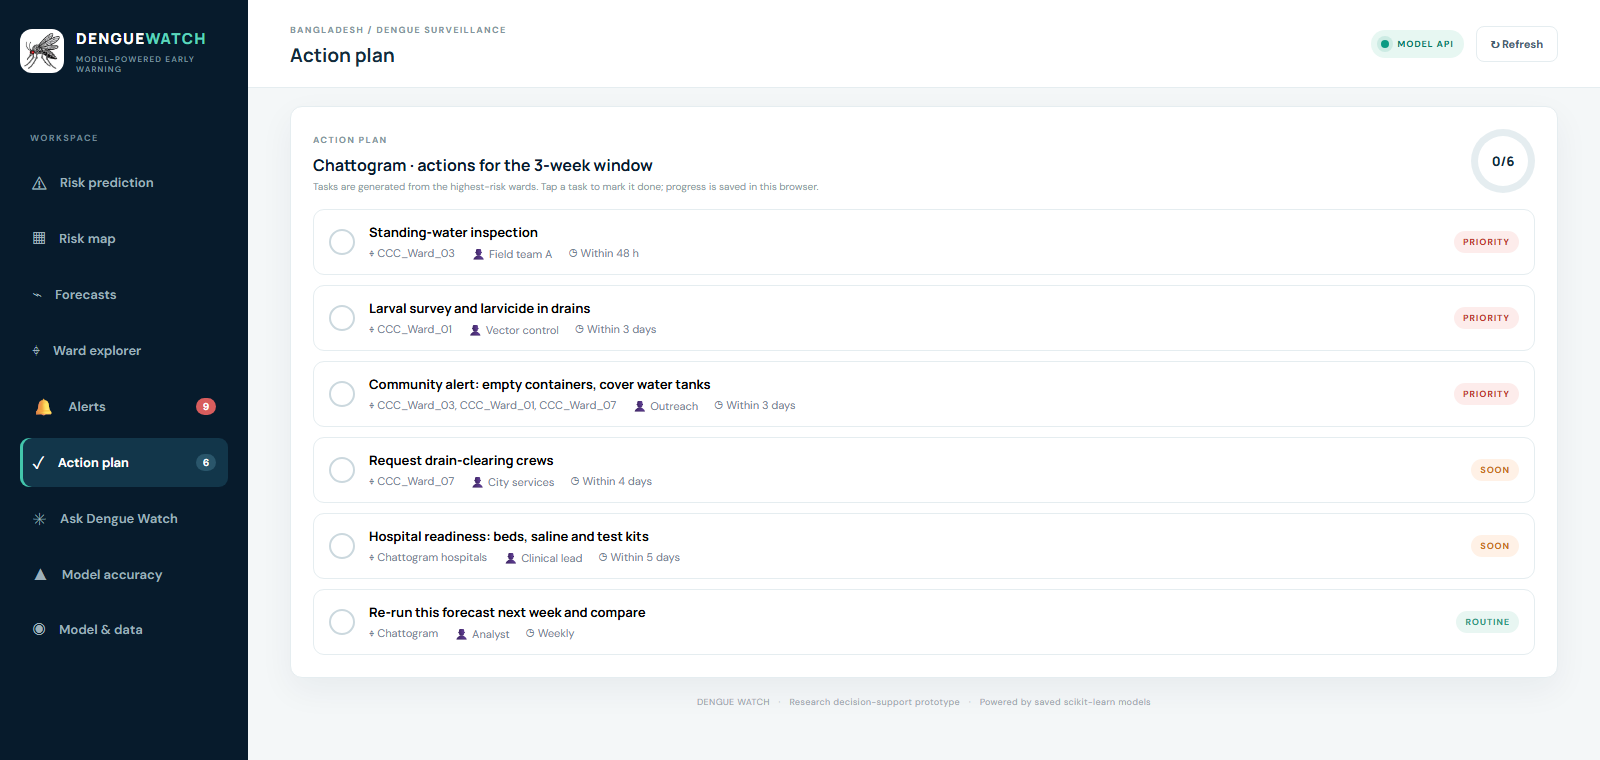
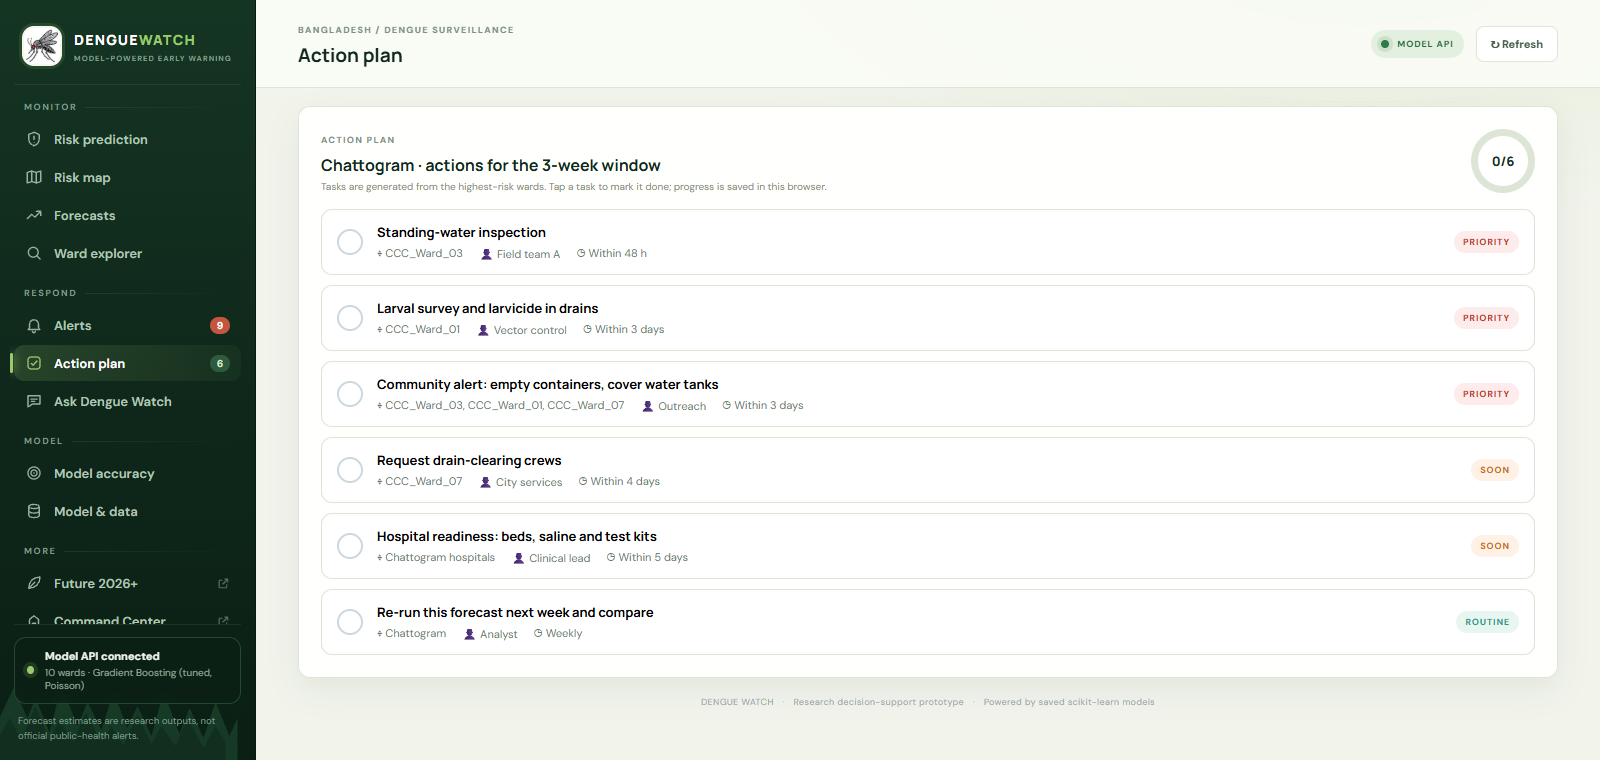
full ui update

diff --git a/web/index.html b/web/index.html
@@ -146,7 +146,7 @@
           </div>
           <div class="kpi-grid" id="accKpi"></div>
           <div class="acc-grid">
-            <div><h4 class="acc-h">Across all horizons (at this threshold)</h4><div id="accChart" class="chart-area"></div><div class="chart-foot"><span><i class="legend-dot teal"></i> Precision &nbsp; <i class="legend-dot blue"></i> Recall &nbsp; <i class="legend-dot" style="background:#d38a2c"></i> F1</span><span>Weeks ahead →</span></div></div>
+            <div><h4 class="acc-h">Across all horizons (at this threshold)</h4><div id="accChart" class="chart-area"></div><div class="chart-foot"><span><i class="legend-dot teal"></i> Precision &nbsp; <i class="legend-dot blue"></i> Recall &nbsp; <i class="legend-dot" style="background:var(--amber)"></i> F1</span><span>Weeks ahead →</span></div></div>
             <div><h4 class="acc-h">Confusion matrix</h4><div id="accCm" class="acc-cm"></div></div>
           </div>
           <div class="table-wrap"><table><thead><tr><th>HORIZON</th><th>PRECISION</th><th>RECALL</th><th>F1</th><th>TP</th><th>FP</th><th>FN</th><th>TN</th></tr></thead><tbody id="accRows"></tbody></table></div>

diff --git a/web/assets/css/forest.css b/web/assets/css/forest.css
@@ -73,6 +73,11 @@ tbody tr:hover{background:#f6f9f1}
 #toast{background:#173a28}
 .notice{background:#fbf6ea;border-color:#ead9b4}
 
+.acc-bar-p{fill:var(--teal)}.acc-bar-r{fill:var(--blue)}.acc-bar-f{fill:var(--amber)}
+.acc-cm .good{background:#e4f0df;color:#2b6a3f}.acc-cm .bad{background:#f8eedf;color:#9a5f22}
+.acc-controls label,.acc-cm .hd{color:#7b8d7d}
+tr.acc-sel{background:#eaf3e4}
+
 .rm-stat,.rm-side{border-color:#1f4a33;background:linear-gradient(135deg,#143323,#0a1a12);color:#e6f1e2}
 .rm-stat small,.rm-stat span{color:#93b39b}
 .rm-stage{border-color:#1f4a33;background:radial-gradient(ellipse at 50% 46%,#1d4a30 0,#10291c 42%,#07130d 100%)}

diff --git a/README.md b/README.md
@@ -26,8 +26,17 @@ The dashboard is designed to help users explore where dengue risk may increase a
 - **Alerts and action planning:** Surface higher-risk wards and provide suggested follow-up actions.
 - **Long-range outlook:** Explore a seasonal forecast for 2026–2027.
 - **Bilingual assistant:** Ask Dengue Watch questions in English or Bangla.
+- **Animated start page:** A mosquito is swatted, then the message "ডেঙ্গুকে না বলুন" (Say no to dengue) appears before the dashboard opens. It plays once per browser session and is skipped for users who prefer reduced motion.
 
 ## Dashboard
+
+<p align="center">
+  <img src="docs/screenshots/intro.png" alt="Start page: a swatted mosquito and the Bangla message ডেঙ্গুকে না বলুন (Say no to dengue)" width="100%">
+</p>
+
+<p align="center">
+  <img src="docs/screenshots/risk-prediction.png" alt="Ward-level risk prediction" width="100%">
+</p>
 
 <p align="center">
   <img src="docs/screenshots/risk-map.png" alt="Dengue Watch ward risk overview" width="100%">
